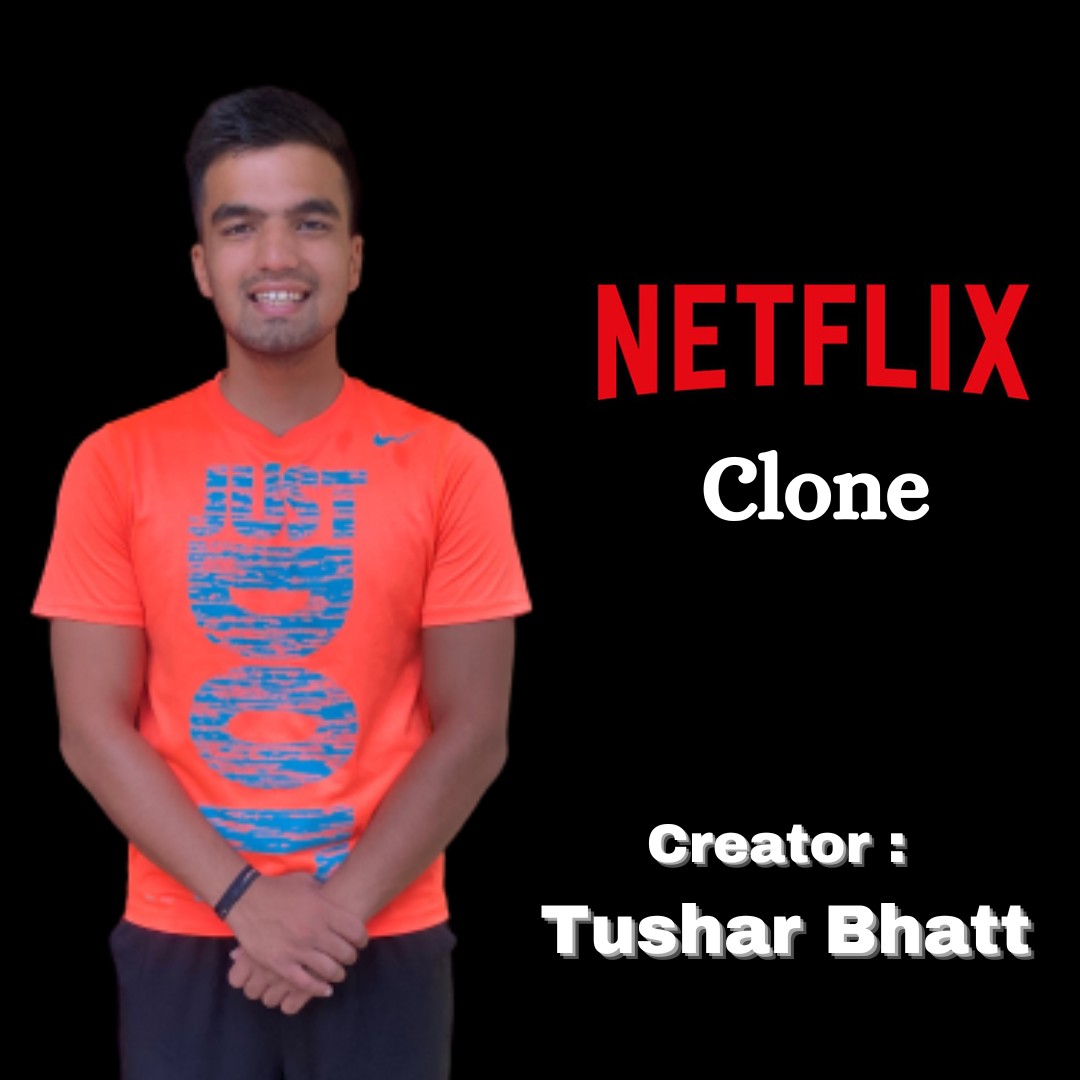
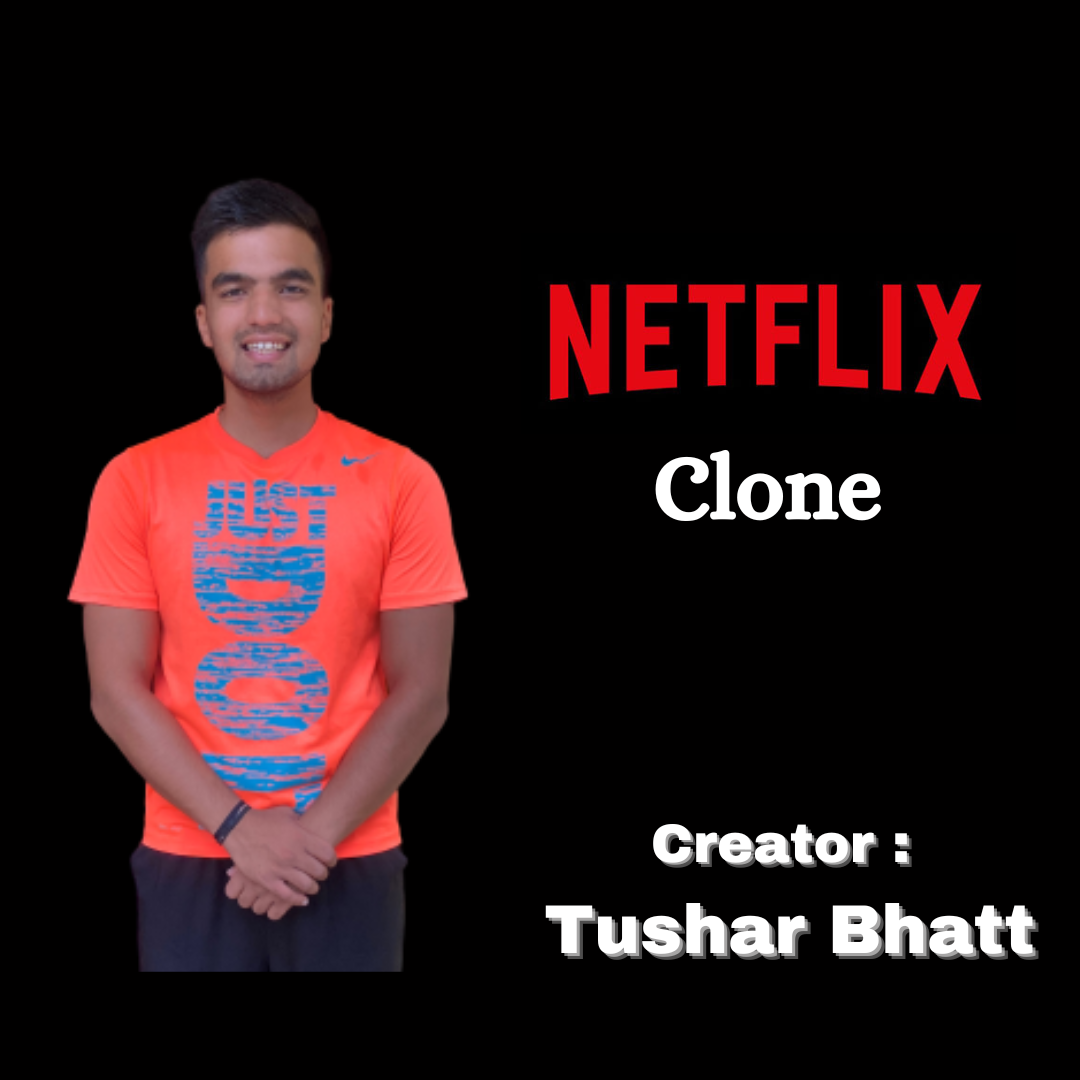
imp

diff --git a/src/Components/switchTab/style.scss b/src/Components/switchTab/style.scss
@@ -14,7 +14,7 @@
             display: flex;
             align-items: center;
             justify-content: center;
-            width: 90px;
+            width: 100px;
             color: var(--black);
             font-size: 14px;
             position: relative;
@@ -27,7 +27,7 @@
         }
         .movingBg {
             height: 30px;
-            width: 80px;
+            width: 100px;
             border-radius: 15px;
             background-image: var(--gradient);
             position: absolute;

diff --git a/src/index.scss b/src/index.scss
@@ -17,7 +17,7 @@
   --black-light: #173d77;
   --pink: #da2f68;
   --orange: #f89e00;
-  --gradient: linear-gradient(98.37deg, #f89e00 0.99%, #da2f68 100%);
+  --gradient: linear-gradient(98.37deg, #f50a0a 0.99%, #da2f68 100%);
 }
 
 * {
@@ -27,7 +27,7 @@
 }
 
 body {
-  background-color:rgb(210, 105, 105)
+  background-color:black
 }
 
 ::-webkit-scrollbar {

diff --git a/src/Pages/intro/Intro.jsx b/src/Pages/intro/Intro.jsx
@@ -38,7 +38,7 @@ useEffect(()=>{
   return (
     <div>
         {showCreator && <div className="Creator">
-        <img src={logo} style={{height:"55%", width:"30%"}} alt="Tushar Bhatt"/>
+        <img src={logo}  alt="Tushar Bhatt"/>
         </div>}
         {showWelcome && <div className="welcomeScreen">
         

diff --git a/src/Pages/intro/style.scss b/src/Pages/intro/style.scss
@@ -4,6 +4,17 @@
     display: flex;
     justify-content: center;
     align-items: center;
+
+    img{
+      height: 50%;
+      width: 30%;
+      margin: auto;
+      @media (max-width:500px) {
+        height: 50%;
+        width: 80%;
+        margin-top: 130px;
+      }
+    }
 }
 
 .welcomeScreen{
